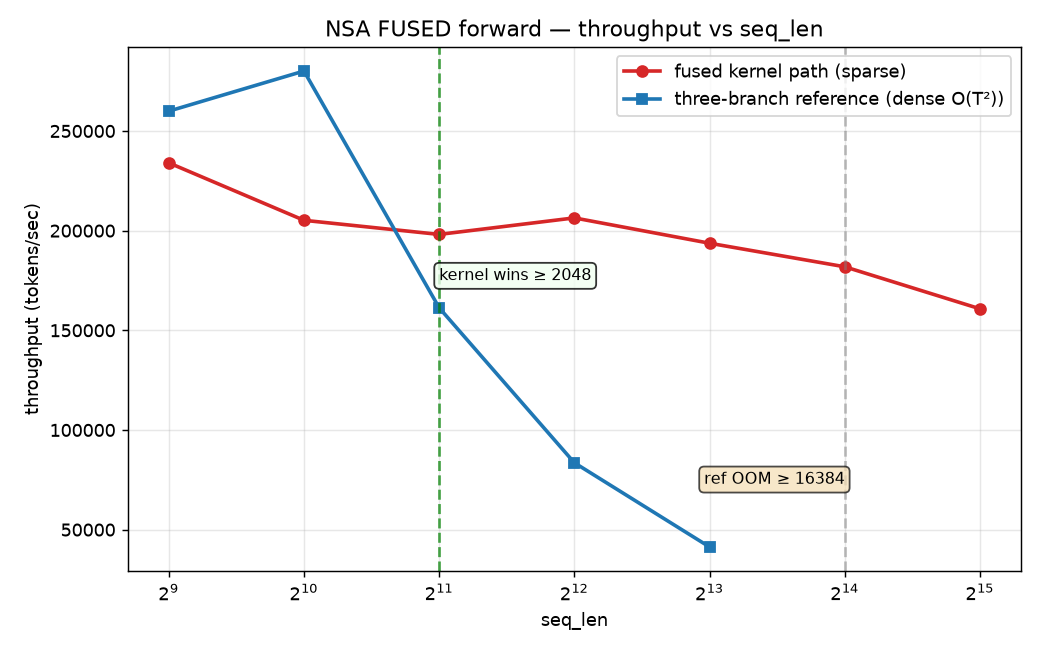
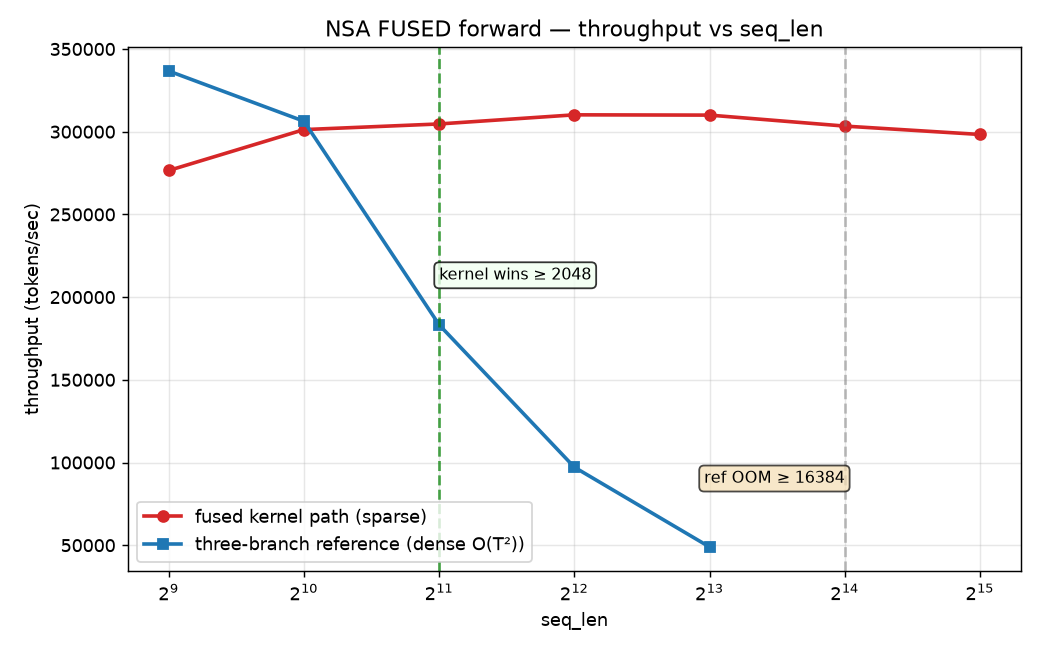
bench: end-to-end fwd+bwd speedup sweep (3090+H100), --profile flag, updated plots

diff --git a/bench_e2e_sweep.py b/bench_e2e_sweep.py
@@ -1,0 +1,96 @@
+#!/usr/bin/env python3
+"""
+bench_e2e_sweep.py — MEASURED end-to-end fwd+bwd speedup vs sequence length.
+
+Maps the curve: FSA selection-backward off vs on, at seq {512,1024,2048,4096},
+on the fused kernel path at the 1.5B shape. This tells us whether the paper's
+1.63x is a seq-1024 point on a rising curve (thesis-consistent) or an outlier.
+
+Also backs out selection-backward's implied share of the step at each seq via
+Amdahl: ratio = 1/(1 - s*(1 - 1/K)), K=8.4 -> s = (1 - 1/ratio)/(1 - 1/K).
+
+Run:  nice -n 10 python bench_e2e_sweep.py     (GPU must be clear)
+"""
+import torch
+import nsa_selection_backward as nsb
+from nsa_model import NSATransformer
+
+torch.set_num_threads(4)
+DEV = "cuda"
+assert torch.cuda.is_available()
+
+SEQS = [512, 1024, 2048, 4096]
+BATCH = 1
+STEPS, WARMUP = 15, 6
+K_BRANCH = 8.4                      # measured selection-backward isolation speedup
+
+# 1.5B shape (smoke_rung2b CFG); max_seq_len set to the longest sweep point.
+CFG = dict(vocab_size=50257, d_model=2048, n_layers=30, n_q_heads=16,
+           n_kv_heads=4, max_seq_len=max(SEQS), ffn_mult=4,
+           block_size=16, n_selected_blocks=8, window=64)
+
+
+def build():
+    torch.manual_seed(0)
+    m = NSATransformer(attn_type="nsa", attn_impl="fused", **CFG).to(DEV)
+    m.train()
+    return m
+
+
+def time_at(model, seq, fsa_on):
+    nsb.USE_FSA_BWD = fsa_on
+    idx = torch.randint(0, CFG["vocab_size"], (BATCH, seq), device=DEV)
+    tgt = torch.randint(0, CFG["vocab_size"], (BATCH, seq), device=DEV)
+
+    def step():
+        with torch.autocast("cuda", dtype=torch.bfloat16):
+            out = model(idx, tgt)
+            loss = out[1] if isinstance(out, (tuple, list)) else out
+        loss.backward()
+        model.zero_grad(set_to_none=True)
+
+    for _ in range(WARMUP):
+        step()
+    torch.cuda.synchronize()
+    s, e = torch.cuda.Event(True), torch.cuda.Event(True)
+    s.record()
+    for _ in range(STEPS):
+        step()
+    e.record(); torch.cuda.synchronize()
+    ms = s.elapsed_time(e) / STEPS
+    gb = torch.cuda.max_memory_allocated() / 1e9
+    torch.cuda.reset_peak_memory_stats()
+    return ms, gb
+
+
+def implied_share(ratio):
+    # s such that Amdahl with K_BRANCH reproduces the measured ratio
+    return (1 - 1 / ratio) / (1 - 1 / K_BRANCH)
+
+
+def main():
+    print(f"GPU: {torch.cuda.get_device_name(0)}  1.5B fused  batch={BATCH}  "
+          f"selection-bwd isolation={K_BRANCH}x\n")
+    model = build()
+    n = sum(p.numel() for p in model.parameters())
+    print(f"params: {n/1e9:.3f}B\n")
+    print(f"{'seq':>6}{'off ms':>9}{'on ms':>9}{'ratio':>8}"
+          f"{'sel-bwd share':>15}{'peakGB':>9}")
+    print("-" * 56)
+    for seq in SEQS:
+        try:
+            off_ms, _   = time_at(model, seq, fsa_on=False)
+            on_ms,  gb  = time_at(model, seq, fsa_on=True)
+            r = off_ms / on_ms
+            print(f"{seq:>6}{off_ms:>9.1f}{on_ms:>9.1f}{r:>8.3f}"
+                  f"{implied_share(r)*100:>13.1f}%{gb:>9.2f}")
+        except torch.cuda.OutOfMemoryError:
+            torch.cuda.empty_cache()
+            print(f"{seq:>6}    OOM (batch {BATCH}) — bare step won't fit at this seq")
+            break
+    print("\nfwd+bwd only, no optimizer. Real AdamW-in-loop speedup is <= these,")
+    print("since opt.step() over 1.5B dense params dilutes selection's share.")
+
+
+if __name__ == "__main__":
+    main()

diff --git a/bench_e2e.py b/bench_e2e.py
@@ -1,0 +1,91 @@
+#!/usr/bin/env python3
+"""
+bench_e2e.py — MEASURED end-to-end fwd+bwd step speedup, FSA selection-backward
+off vs on, on the fused kernel path. This produces the real ratio to replace the
+Amdahl-projected 1.63x in the paper.
+
+Method: build the 1.5B model on attn_impl="fused", time a full forward+backward
+step (no optimizer, grad-ckpt not needed at seq 512/batch 1 on the flat-VRAM fused
+path). Run twice: USE_FSA_BWD True vs False. Report ms/step, tok/s, and the ratio.
+
+USE_FSA_BWD is a module-level constant in nsa_selection_backward.py, read at kernel
+dispatch (line 359), so we flip it at runtime before each timing loop.
+
+Run:  nice -n 10 python bench_e2e.py
+Prereq: GPU clear (ollama stopped) — this builds a 1.5B model.
+"""
+import time
+import torch
+import nsa_selection_backward as nsb          # so we can flip USE_FSA_BWD
+from nsa_model import NSATransformer
+
+torch.set_num_threads(4)
+DEV = "cuda"
+assert torch.cuda.is_available()
+
+# 1.5B config — must match the paper's shape (smoke_rung2b.py CFG).
+CFG = dict(vocab_size=50257, d_model=2048, n_layers=30, n_q_heads=16,
+           n_kv_heads=4, max_seq_len=1024, ffn_mult=4,
+           block_size=16, n_selected_blocks=8, window=64)
+SEQ, BATCH = 1024, 2
+STEPS, WARMUP = 20, 8
+
+
+def build():
+    torch.manual_seed(0)
+    m = NSATransformer(attn_type="nsa", attn_impl="fused", **CFG).to(DEV)
+    m.train()
+    return m
+
+
+def time_step(model, fsa_on):
+    nsb.USE_FSA_BWD = fsa_on                     # flip the kernel dispatch
+    idx = torch.randint(0, CFG["vocab_size"], (BATCH, SEQ), device=DEV)
+    tgt = torch.randint(0, CFG["vocab_size"], (BATCH, SEQ), device=DEV)
+
+    def step():
+        with torch.autocast("cuda", dtype=torch.bfloat16):
+            out = model(idx, tgt)
+            loss = out[1] if isinstance(out, (tuple, list)) else out
+        loss.backward()
+        model.zero_grad(set_to_none=True)
+
+    for _ in range(WARMUP):
+        step()
+    torch.cuda.synchronize()
+
+    s, e = torch.cuda.Event(True), torch.cuda.Event(True)
+    s.record()
+    for _ in range(STEPS):
+        step()
+    e.record(); torch.cuda.synchronize()
+    ms = s.elapsed_time(e) / STEPS
+    peak = torch.cuda.max_memory_allocated() / 1e9
+    torch.cuda.reset_peak_memory_stats()
+    return ms, peak
+
+
+def main():
+    print(f"GPU: {torch.cuda.get_device_name(0)}  1.5B fused path  "
+          f"seq={SEQ} batch={BATCH} tok/step={SEQ*BATCH}")
+    model = build()
+    n = sum(p.numel() for p in model.parameters())
+    print(f"params: {n/1e9:.3f}B\n")
+
+    # FSA backward OFF (reference selection-backward, still fused fwd path)
+    off_ms, off_gb = time_step(model, fsa_on=False)
+    # FSA backward ON (the block-outer kernel)
+    on_ms,  on_gb  = time_step(model, fsa_on=True)
+
+    tok = SEQ * BATCH
+    print(f"{'':16}{'ms/step':>10}{'tok/s':>10}{'peakGB':>9}")
+    print(f"{'FSA bwd OFF':16}{off_ms:>10.2f}{tok/(off_ms/1e3):>10.0f}{off_gb:>9.2f}")
+    print(f"{'FSA bwd ON':16}{on_ms:>10.2f}{tok/(on_ms/1e3):>10.0f}{on_gb:>9.2f}")
+    print(f"\nend-to-end fwd+bwd speedup (OFF/ON): {off_ms/on_ms:.3f}x")
+    print("NOTE: fwd+bwd only, no optimizer. A full training step adds opt.step()")
+    print("over 1.5B params (dense), which shrinks selection's share further, so the")
+    print("real AdamW-in-loop speedup is <= this figure. Report as 'fwd+bwd step'.")
+
+
+if __name__ == "__main__":
+    main()

diff --git a/make_e2e_curve.py b/make_e2e_curve.py
@@ -1,0 +1,30 @@
+import matplotlib
+matplotlib.use("Agg")
+import matplotlib.pyplot as plt
+
+# Measured, RTX 3090, fused path, 1.5B, fwd+bwd (no optimizer), atomic->FSA selection backward
+seq   = [512, 1024, 2048]
+ratio = [1.083, 1.177, 1.259]     # batch 1
+b2_seq, b2_ratio = 1024, 1.359    # batch 2 point
+
+fig, ax = plt.subplots(figsize=(5.0, 3.4))
+ax.plot(seq, ratio, "-o", color="#1f77b4", lw=2, ms=6, label="batch 1")
+ax.plot([b2_seq], [b2_ratio], "s", color="#d62728", ms=8, label="batch 2")
+ax.annotate("1.36×", (b2_seq, b2_ratio), textcoords="offset points",
+            xytext=(8, -2), fontsize=9, color="#d62728")
+for x, y in zip(seq, ratio):
+    ax.annotate(f"{y:.2f}×", (x, y), textcoords="offset points",
+                xytext=(6, 6), fontsize=9, color="#1f77b4")
+ax.axhline(1.63, ls="--", color="#888888", lw=1)
+ax.annotate("1.63× (prior Amdahl projection)", (512, 1.63),
+            textcoords="offset points", xytext=(4, 5), fontsize=8, color="#888888")
+ax.set_xscale("log", base=2)
+ax.set_xticks(seq); ax.set_xticklabels([str(s) for s in seq])
+ax.set_xlabel("sequence length")
+ax.set_ylabel("end-to-end fwd+bwd speedup\n(atomic → FSA selection backward)")
+ax.set_ylim(1.0, 1.72)
+ax.grid(True, alpha=0.3)
+ax.legend(loc="lower right", fontsize=9, frameon=False)
+fig.tight_layout()
+fig.savefig("e2e_speedup_curve.png", dpi=200)
+print("wrote e2e_speedup_curve.png")

diff --git a/train_rung2a.py b/train_rung2a.py
@@ -122,6 +122,11 @@ def main():
     ap.add_argument("--n_selected_blocks", type=int, default=8)
     ap.add_argument("--window", type=int, default=64)
     ap.add_argument("--device", default="cuda" if torch.cuda.is_available() else "cpu")
+    ap.add_argument("--profile", action="store_true",
+                    help="profile ~N steps and exit; no training")
+    ap.add_argument("--profile_steps", type=int, default=20)
+    ap.add_argument("--profile_warmup", type=int, default=8)
+
     args = ap.parse_args()
 
     # ---- resource caps (leave the desktop usable) ------------------------
@@ -190,6 +195,31 @@ def main():
     t0 = time.time()
     train_iter = iter(train_loader)
     running = []
+    if args.profile:
+        from profile_step import profile_step
+        seen, n_params = set(), 0                 # dedup tied embeddings
+        for p in model.parameters():
+            if id(p) in seen: continue
+            seen.add(id(p)); n_params += p.numel()
+        pit = iter(train_loader)
+        xb, yb = next(pit)
+        xb, yb = xb.to(device, non_blocking=True), yb.to(device, non_blocking=True)
+
+        def step_fn():
+            with torch.autocast("cuda", dtype=amp_dtype, enabled=(device.type == "cuda")):
+                _, loss = model(xb, yb)
+            opt.zero_grad(set_to_none=True)
+            loss.backward()
+            torch.nn.utils.clip_grad_norm_(model.parameters(), args.grad_clip)
+            opt.step()
+
+        profile_step(step_fn, n_params=n_params,
+                     tokens_per_step=args.batch_size * args.seq_len,
+                     warmup=args.profile_warmup, active=args.profile_steps,
+                     trace=True, label=args.attn)
+        raise SystemExit
+
+
     for step in range(1, args.steps + 1):
         try:
             x, y = next(train_iter)